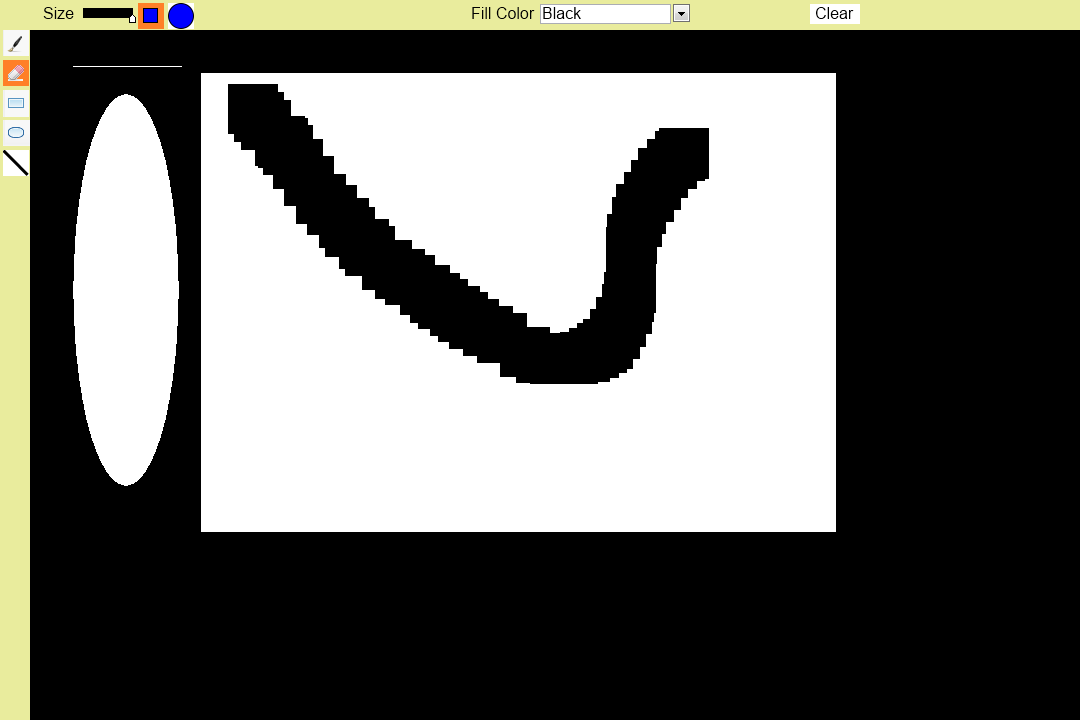
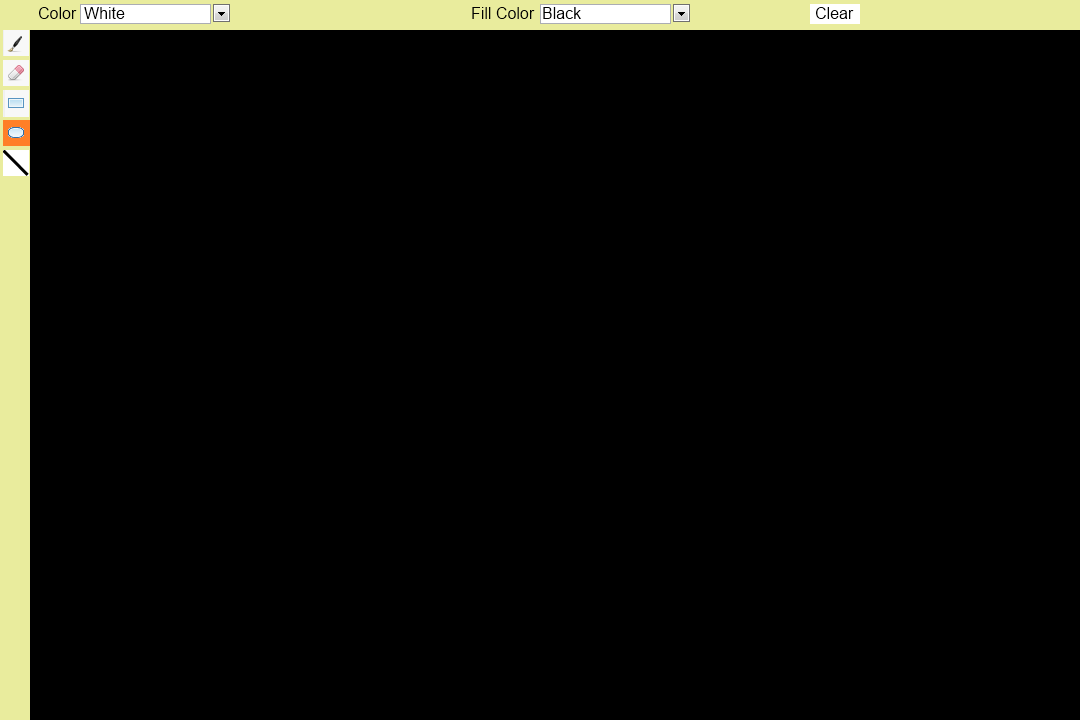
Changed ellipse line width to 4.
Makes it look nicer.

diff --git a/Chalkboard/Chalkboard.py b/Chalkboard/Chalkboard.py
@@ -783,7 +783,7 @@ class main:
                             self.hist_points.append(self.point2)
                             self.hist_points.append(self.point3)
                             self.hist_points.append(self.point4)
-                            self.hist_size.append(1)
+                            self.hist_size.append(4)
                             self.hist_color.append(self.line_c)
                     elif self.lineClicked:
                         self.history.append("line")
@@ -871,21 +871,21 @@ class main:
             self.point1 = rect_corner[0]
             self.point2 = rect_corner[1]
         elif rect_height == 0 and rect_width != 0:
-            pygame.draw.line(self.screen, self.color, self.points[self.c], self.points[0], 1)
+            pygame.draw.line(self.screen, self.color, self.points[self.c], self.points[0], 4)
             self.ell_type = 2
             self.point1 = self.points[self.c][0]
             self.point2 = self.points[self.c][1]
             self.point3 = self.points[0][0]
             self.point4 = self.points[0][1]
         elif rect_height != 0 and rect_width == 0:
-            pygame.draw.line(self.screen, self.color, self.points[0], self.points[self.c], 1)
+            pygame.draw.line(self.screen, self.color, self.points[0], self.points[self.c], 4)
             self.ell_type = 2
             self.point1 = self.points[0][0]
             self.point2 = self.points[0][1]
             self.point3 = self.points[self.c][0]
             self.point4 = self.points[self.c][1]
         elif rect_height == 0 and rect_width == 0:
-            pygame.draw.line(self.screen, self.color, self.points[self.c], self.points[0], 1)
+            pygame.draw.line(self.screen, self.color, self.points[self.c], self.points[0], 4)
             self.ell_type = 2
             self.point1 = self.points[self.c][0]
             self.point2 = self.points[self.c][1]
